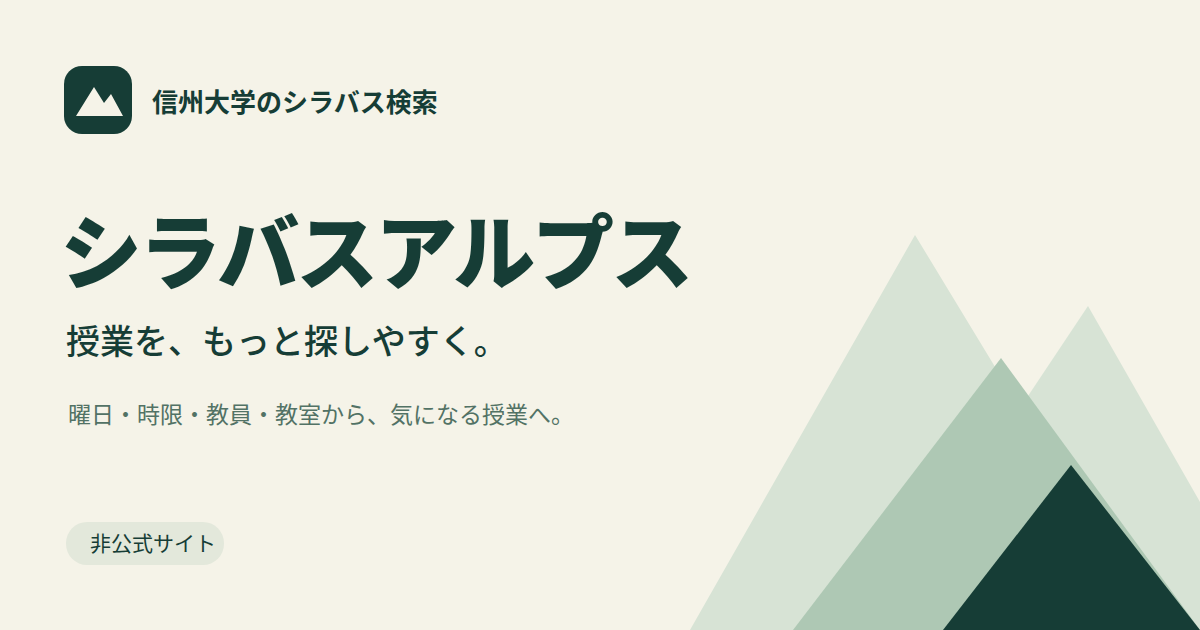
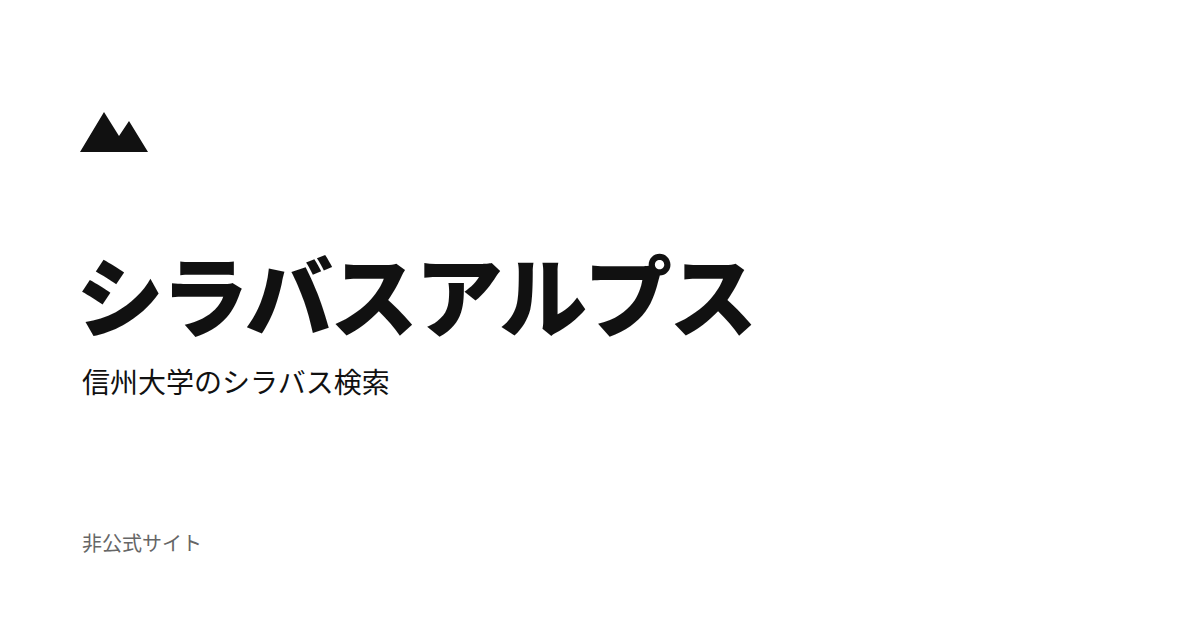
style(ogp): 白黒基調で情報を絞った共有画像に変更

diff --git a/app/seo-elements.tsx b/app/seo-elements.tsx
@@ -10,14 +10,14 @@ export function seoElements(meta: ReturnType<typeof pageMetadata>, server = fals
     { property: 'og:title', content: meta.title },
     { property: 'og:description', content: meta.description },
     { property: 'og:url', content: meta.canonical },
-    { property: 'og:image', content: `${SITE_ORIGIN}/og-syllabus-alps.png` },
+    { property: 'og:image', content: `${SITE_ORIGIN}/og-syllabus-alps.png?v=2` },
     { property: 'og:image:width', content: '1200' },
     { property: 'og:image:height', content: '630' },
-    { property: 'og:image:alt', content: 'シラバスアルプス — 信州大学の授業を、もっと探しやすく。非公式シラバス検索' },
+    { property: 'og:image:alt', content: 'シラバスアルプス — 信州大学のシラバス検索（非公式）' },
     { name: 'twitter:card', content: 'summary_large_image' },
     { name: 'twitter:title', content: meta.title },
     { name: 'twitter:description', content: meta.description },
-    { name: 'twitter:image', content: `${SITE_ORIGIN}/og-syllabus-alps.png` },
+    { name: 'twitter:image', content: `${SITE_ORIGIN}/og-syllabus-alps.png?v=2` },
   ];
   return [
     ...values.map(value => {
